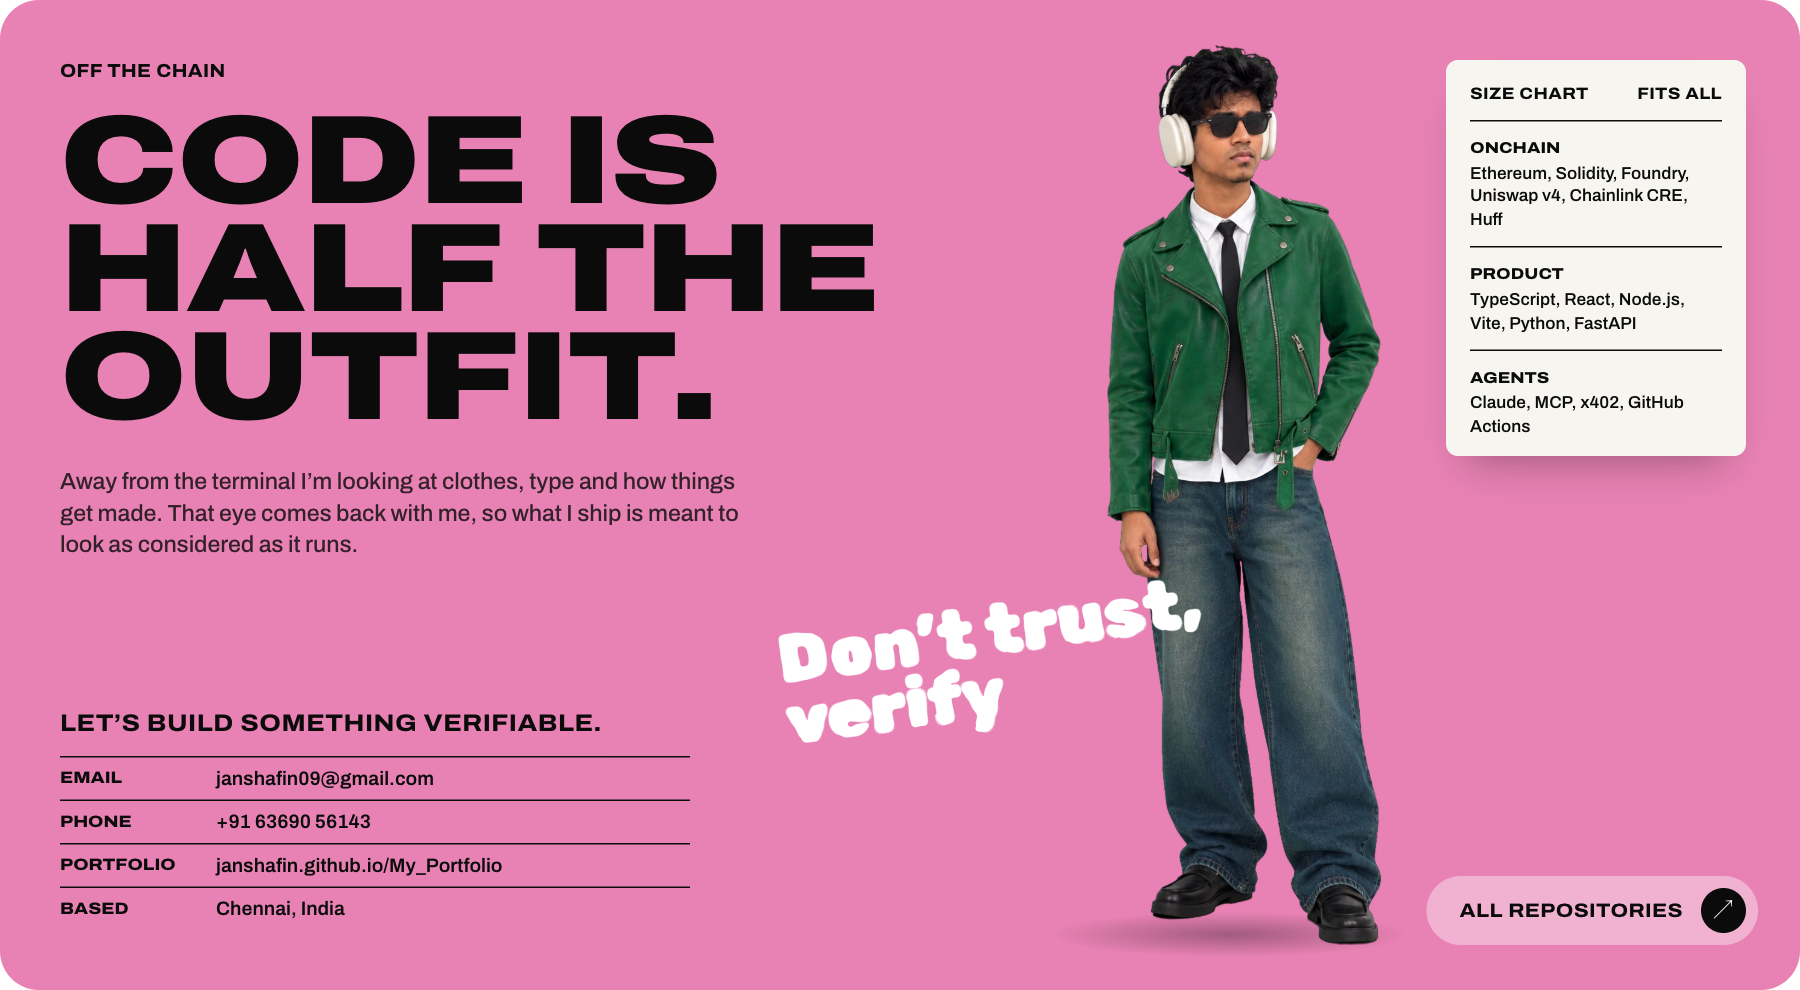
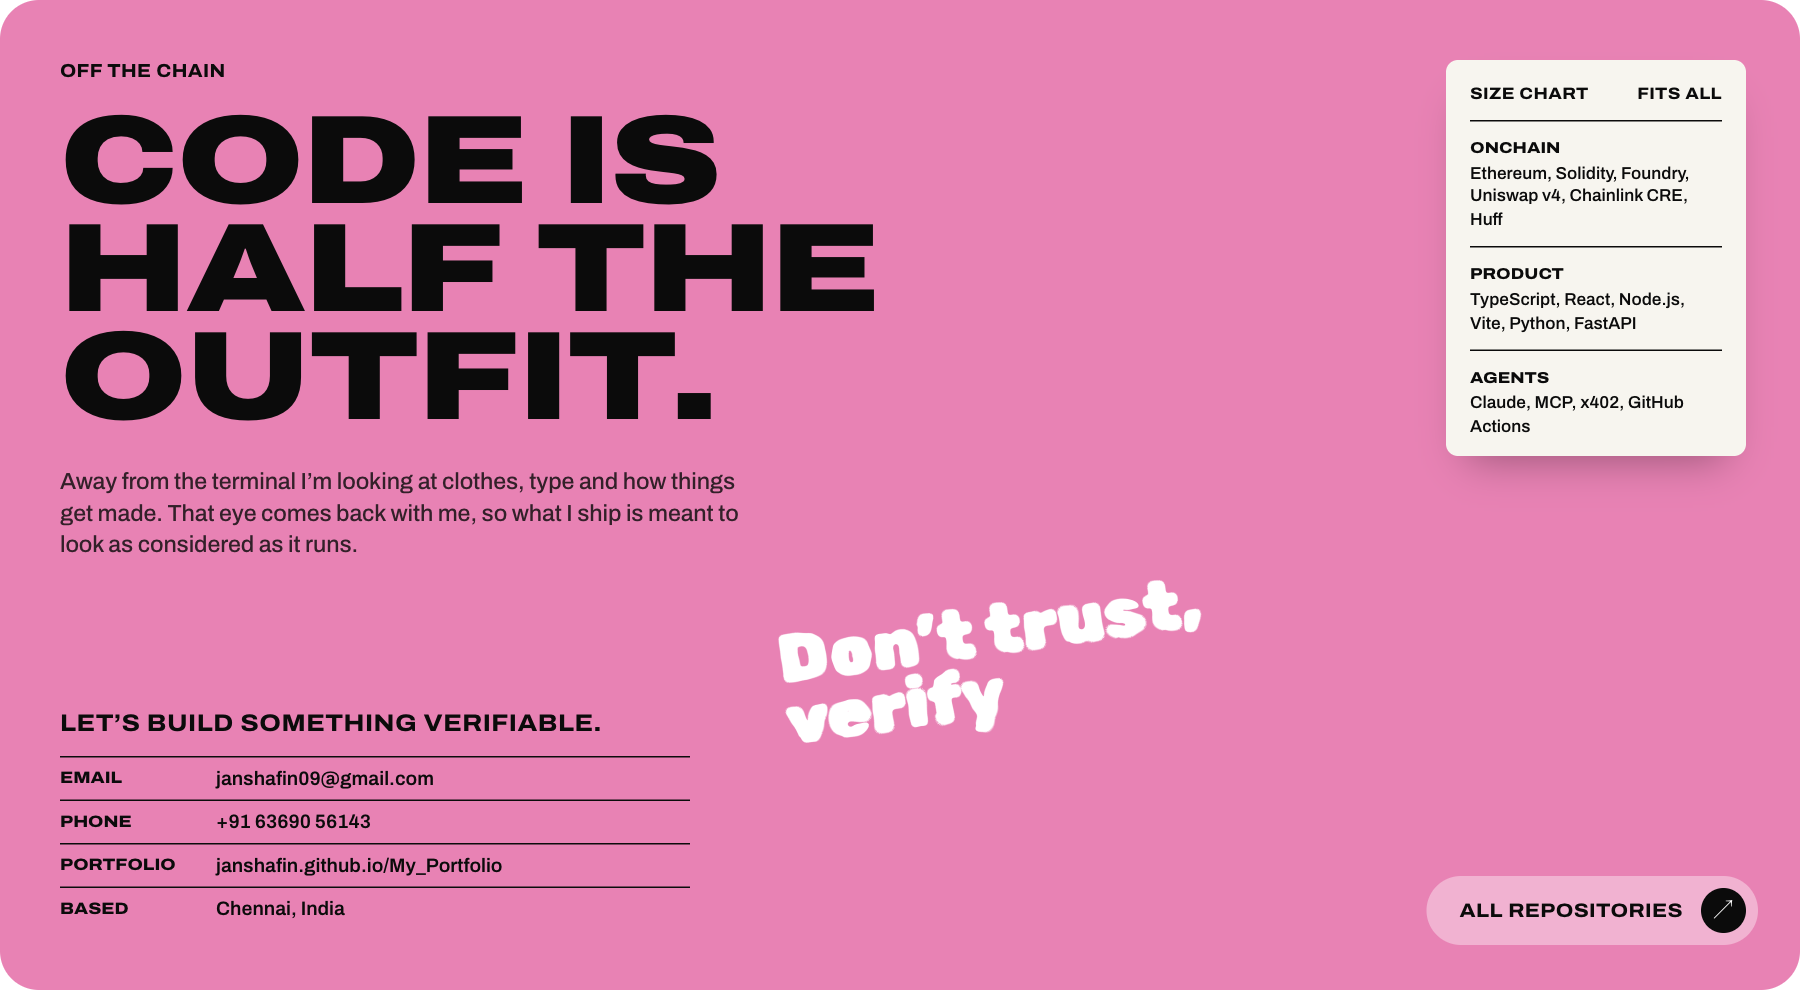
Remove photo from the profile

Changed region(s): [[0.5911, 0.0303, 0.7778, 0.9697]]

diff --git a/studio/scenes/closing.js b/studio/scenes/closing.js
@@ -17,9 +17,7 @@ const contact = [
 export default {
   w: W, h: H, frames: 1, page: "#E882B4",
   under: `
-    <div style="position:absolute;left:700px;bottom:22px;width:240px;height:30px;border-radius:50%;
-      background:radial-gradient(closest-side,rgba(0,0,0,.3),rgba(0,0,0,0))"></div>
-    <img id="me" src="/models/jan.webp" style="position:absolute;left:738px;bottom:30px;height:600px">`,
+`,
   html: `
     <div style="position:absolute;left:40px;top:40px;width:700px">
       <div class="caps" style="font-size:12px">Off the chain</div>
@@ -41,7 +39,6 @@ export default {
     <div class="spray" style="position:absolute;left:520px;top:400px;font-size:46px;transform:rotate(-8deg)">Don’t trust,<br>verify</div>
     <div class="pill caps" style="position:absolute;right:28px;bottom:30px;font-size:13px">All repositories <span class="dot">↗</span></div>`,
   async setup(ctx) {
-    await ctx.under.querySelector("#me").decode();
     return { frame() {} };
   },
 };

diff --git a/README.md b/README.md
@@ -33,7 +33,7 @@
 </a>
 
 <a href="https://janshafin.github.io/My_Portfolio/">
-  <img src="./assets/closing.png" width="100%" alt="Code is half the outfit. A photo of Jan in a green leather jacket, white shirt, black tie and wide denim. Let's build something verifiable. Email janshafin09@gmail.com, phone +91 63690 56143, portfolio janshafin.github.io/My_Portfolio, based in Chennai, India. Size chart: Onchain, Ethereum, Solidity, Foundry, Uniswap v4, Chainlink CRE, Huff. Product, TypeScript, React, Node.js, Vite, Python, FastAPI. Agents, Claude, MCP, x402, GitHub Actions.">
+  <img src="./assets/closing.png" width="100%" alt="Code is half the outfit. Let's build something verifiable. Email janshafin09@gmail.com, phone +91 63690 56143, portfolio janshafin.github.io/My_Portfolio, based in Chennai, India. Size chart: Onchain, Ethereum, Solidity, Foundry, Uniswap v4, Chainlink CRE, Huff. Product, TypeScript, React, Node.js, Vite, Python, FastAPI. Agents, Claude, MCP, x402, GitHub Actions.">
 </a>
 
 <p align="center">
